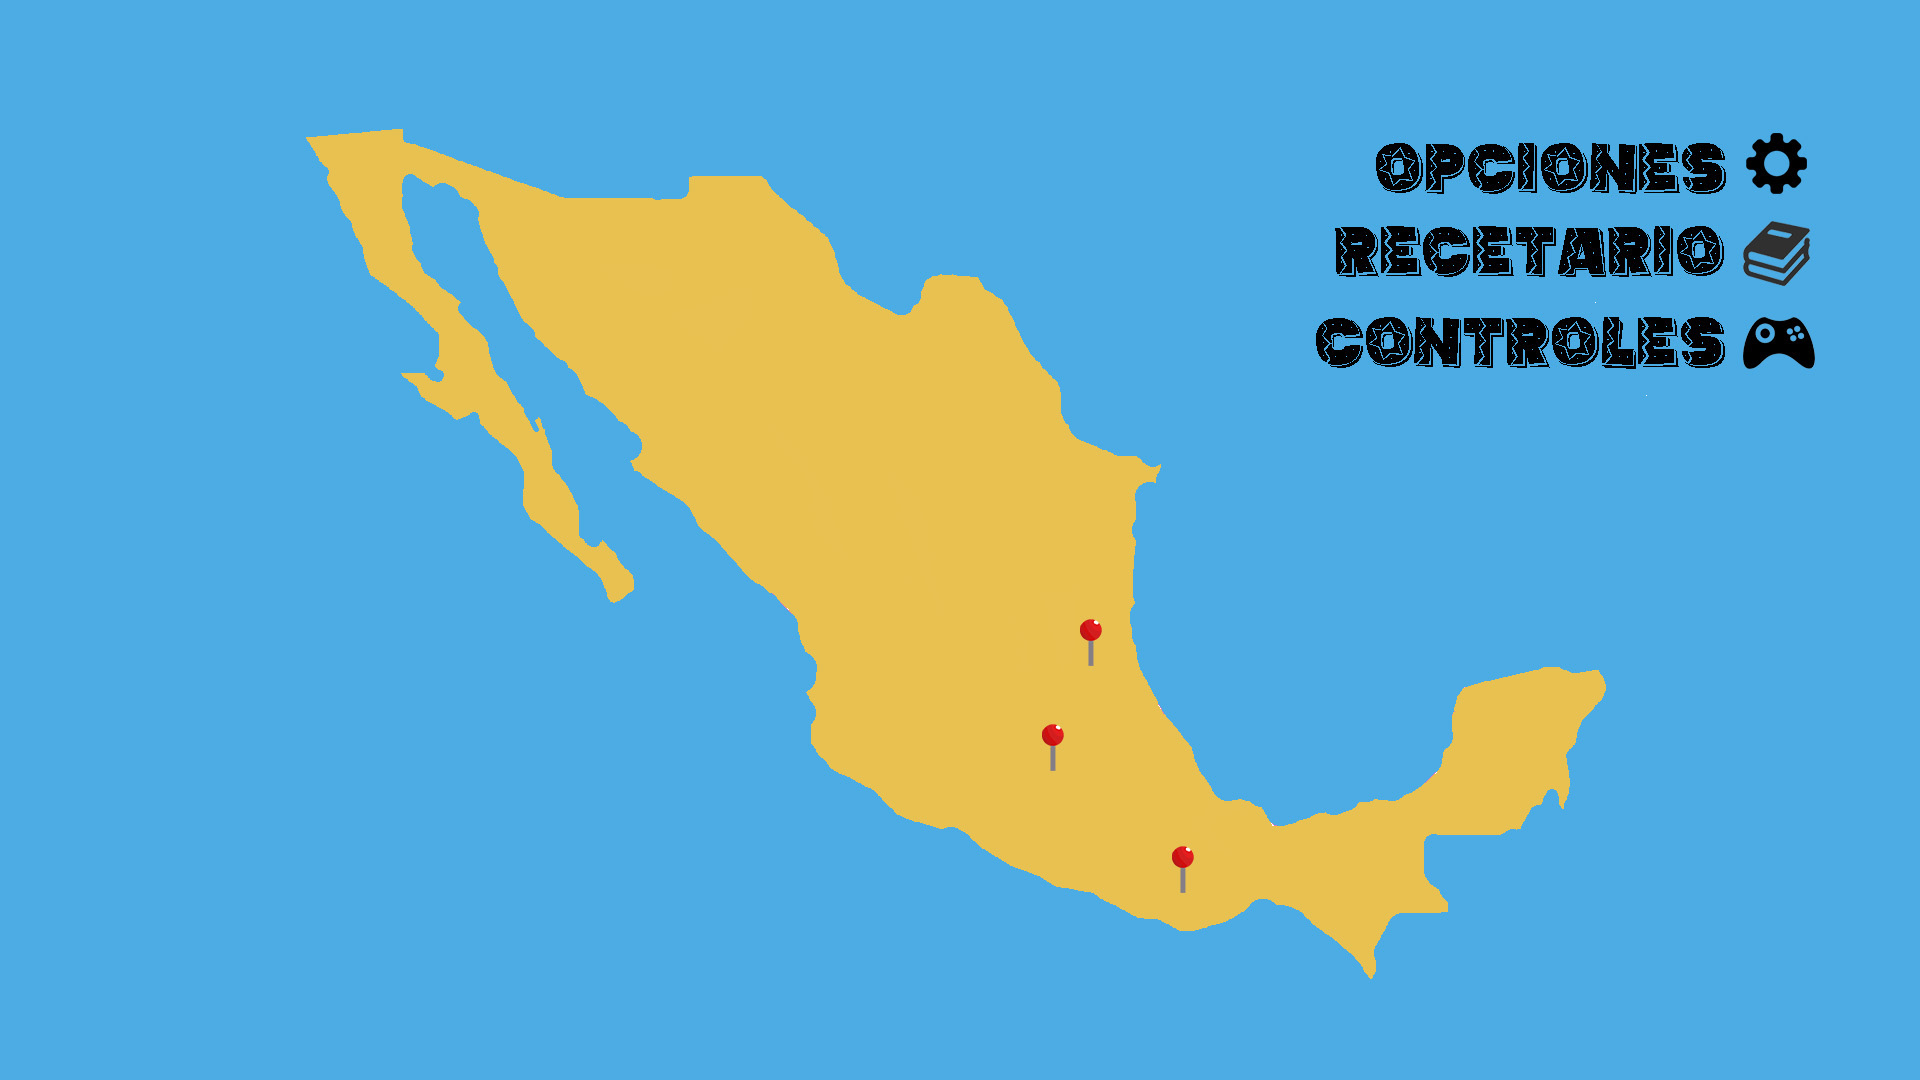
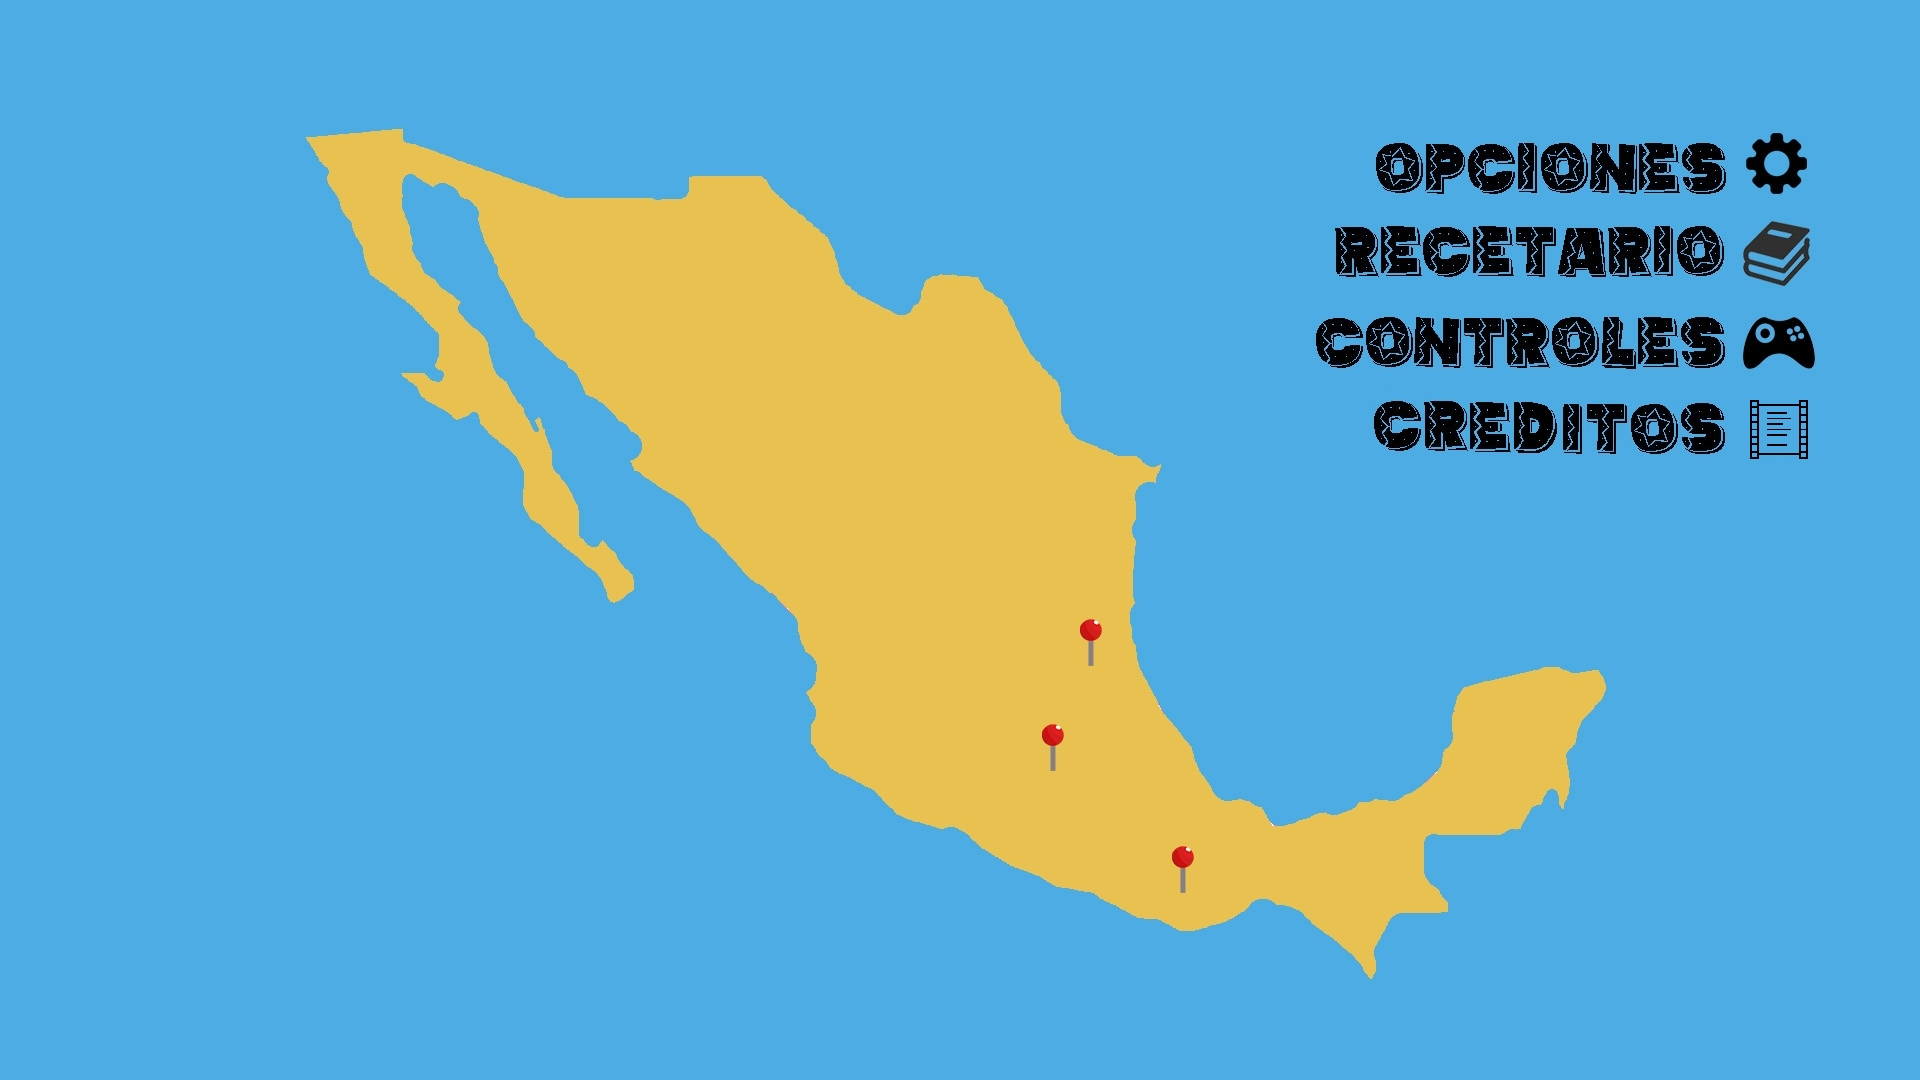
Agregué creditos al juego

diff --git a/XochiAdventure/src/xochiadventure/Game.java b/XochiAdventure/src/xochiadventure/Game.java
@@ -21,7 +21,8 @@ enum Screen {
   OPTIONS,
   RECIPIES,
   LEVEL,
-  CONTROLS
+  CONTROLS,
+  CREDITS
 }
 
 // enum to navigate through all the options in the Main menu
@@ -32,6 +33,7 @@ enum MenuOpt {
   OPTIONS,
   CONTROLS,
   RECIPIES,
+  CREDITS
 }
 
 // enum to navigate through all the options in the Options menu
@@ -90,6 +92,8 @@ public class Game implements Runnable {
 
   private GameLevel gameLevel;
 
+  private String[] credits;
+
   /**
    * to create title, width, height, keyManager, bricks,
    * nombreArchivo, and texto and set the game is still not running
@@ -113,6 +117,12 @@ public class Game implements Runnable {
     brightness = 3;
     menuMusicPlaying = false;
     effectsOn = true;
+
+    credits = new String[4];
+    credits[0] = "Alejandra García - Programadora";
+    credits[1] = "Benjamín Váldez - Programador";
+    credits[2] = "Humberto González - Programador";
+    credits[3] = "Melba Consuelos - Artista";
   }
 
   // GETS ------------------------------------------------------------------------------------------------------------------------------------
@@ -239,6 +249,9 @@ public class Game implements Runnable {
                 menOpt = MenuOpt.CONTROLS;
                 break;
               case CONTROLS:
+                menOpt = MenuOpt.CREDITS;
+                break;
+              case CREDITS:
                 menOpt = MenuOpt.OPTIONS;
                 break;
               case ONE:
@@ -257,13 +270,16 @@ public class Game implements Runnable {
             // checks to where you are navigating in the menu
             switch(menOpt){
               case OPTIONS:
-                menOpt = MenuOpt.CONTROLS;
+                menOpt = MenuOpt.CREDITS;
                 break;
               case RECIPIES:
                 menOpt = MenuOpt.OPTIONS;
                 break;
               case CONTROLS:
                 menOpt = MenuOpt.RECIPIES;
+                break;
+              case CREDITS:
+                menOpt = MenuOpt.CONTROLS;
                 break;
               case ONE:
                 menOpt = MenuOpt.THREE;
@@ -290,6 +306,9 @@ public class Game implements Runnable {
               case CONTROLS:
                 menOpt = MenuOpt.THREE;
                 break;
+              case CREDITS:
+                menOpt = MenuOpt.THREE;
+                break;
               case ONE:
                 menOpt = MenuOpt.OPTIONS;
                 break;
@@ -310,18 +329,18 @@ public class Game implements Runnable {
               menuMusicPlaying = false;
             }
 
+            if (soundOn) {
+              Assets.selectSnd.play();
+            }
+
             // Checks to which screen you are changing to
             switch(menOpt) {
               case OPTIONS:
-                if (soundOn) {
-                  Assets.selectSnd.play();
-                }
                 screen = Screen.OPTIONS;
                 optOpt = OptOpt.DALTONICO;
                 break;
               case ONE:
                 if (soundOn) {
-                  Assets.selectSnd.play();
                   Assets.level1Music.play();
                 }
                 nivel = 1;
@@ -332,7 +351,6 @@ public class Game implements Runnable {
                 break;
               case TWO:
                 if (soundOn) {
-                  Assets.selectSnd.play();
                   Assets.level2Music.play();
                 }
                 nivel = 2;
@@ -343,7 +361,6 @@ public class Game implements Runnable {
                 break;
               case THREE:
                 if (soundOn) {
-                  Assets.selectSnd.play();
                   Assets.level3Music.play();
                 }
                 nivel = 3;
@@ -353,16 +370,13 @@ public class Game implements Runnable {
                 screen = Screen.LEVEL;
                 break;
               case RECIPIES:
-                if (soundOn) {
-                  Assets.selectSnd.play();
-                }
                 screen = Screen.RECIPIES;
                 break;
               case CONTROLS:
-                if (soundOn) {
-                  Assets.selectSnd.play();
-                }
                 screen = Screen.CONTROLS;
+                break;
+              case CREDITS:
+                screen = Screen.CREDITS;
                 break;
             }
           }
@@ -544,6 +558,13 @@ public class Game implements Runnable {
           }
 
           break;
+        case CREDITS:
+          // Checks if the user presses enter to advance to the next screen
+          if (keyManager.back) {
+            screen = Screen.MENU;
+            menOpt = MenuOpt.CREDITS;
+          }
+          break;
     }
   }
 /**
@@ -563,6 +584,8 @@ public class Game implements Runnable {
     } else {
       g = bs.getDrawGraphics();
       g.setFont(texto);
+
+      g.drawImage(Assets.blueBackground, 0, 0, getWidth(), getHeight(), null);
       // Checks which screen to render
       switch(screen) {
           case TITLESCREEN:
@@ -597,6 +620,10 @@ public class Game implements Runnable {
                 break;
               case CONTROLS:
                 g.drawImage(Assets.select, 770, 185, 100, 100, null);
+                g.drawImage(Assets.thinkingXochi, 20, 520, 400, 225, null);
+                break;
+              case CREDITS:
+                g.drawImage(Assets.select, 805, 240, 100, 100, null);
                 g.drawImage(Assets.thinkingXochi, 20, 520, 400, 225, null);
                 break;
               case ONE:
@@ -727,8 +754,16 @@ public class Game implements Runnable {
               }
             }
 
-            
-
+            break;
+          case CREDITS:
+            int i = 0;
+            int x = getWidth() / 2, y = getHeight() / 2 - (credits.length / 2 * 40);
+            g.drawImage(Assets.credits, x - 190, 100, 380, 82, null);
+            for (String credit : credits) {
+              g.drawString(credit, x - (credit.length() / 2 * 16) , y + 35 * i);
+              i++;
+            }
+            g.drawString("Presione backspace para regresar al menu principal", x - 385 , getHeight() - 100);
             break;
       }
       switch(brightness) {

diff --git a/XochiAdventure/src/xochiadventure/Assets.java b/XochiAdventure/src/xochiadventure/Assets.java
@@ -32,7 +32,7 @@ public class Assets {
   public static BufferedImage shot;                       // to store flask color
   public static BufferedImage heart;                      // to store the taco heart image
   
-      // Menu screens
+  // Menu screens
   public static BufferedImage titleScreen;                // to store the title screen
   public static BufferedImage menu;                       // to store the menu     
   public static BufferedImage options;                    // to store the options screen image
@@ -40,6 +40,8 @@ public class Assets {
   public static BufferedImage select;                     // to store the red rectangle image
   public static BufferedImage recipies;                   // to store the recipies screen 
   public static BufferedImage story;
+  public static BufferedImage blueBackground;             // to store blue background
+  public static BufferedImage credits;                    // to store the credits text
   
   // Main menu decorations
   public static BufferedImage thinkingXochi;              // to store the image of xochi for the main menu
@@ -157,6 +159,8 @@ public class Assets {
     miniLevel3 = ImageLoader.loadImage("/images/pantallas/miniNivel3.png");
     thinkingXochi = ImageLoader.loadImage("/images/pantallas/xochiT.png");
     story = ImageLoader.loadImage("/images/pantallas/backstory.jpg");
+    blueBackground = ImageLoader.loadImage("/images/pantallas/fondo.png");
+    credits = ImageLoader.loadImage("/images/pantallas/creditos.png");
     
     cactus = ImageLoader.loadImage("/images/pantallas/cactus.png");
     pyramid = ImageLoader.loadImage("/images/pantallas/pyramid.png");
